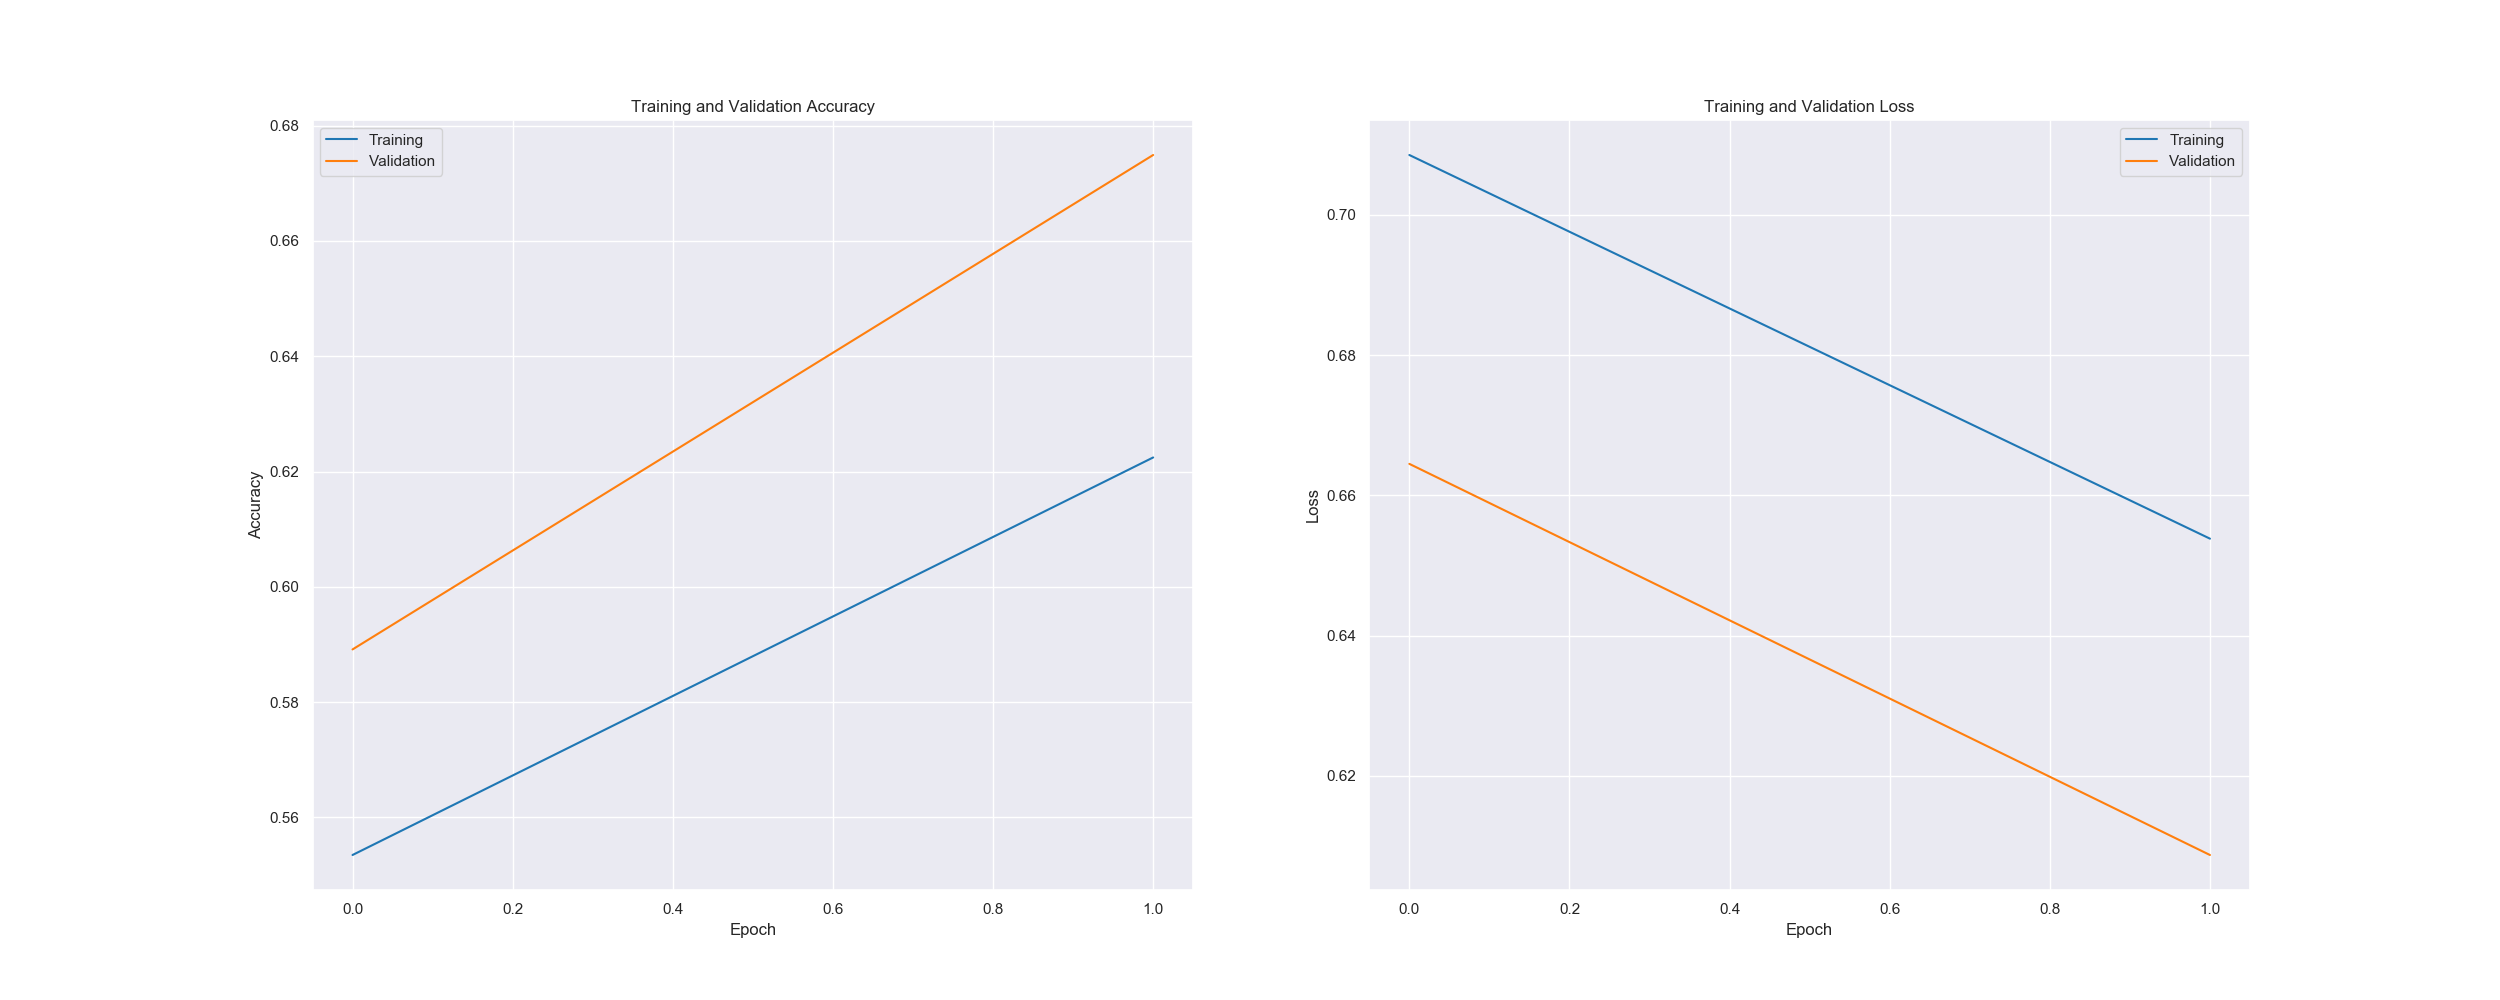
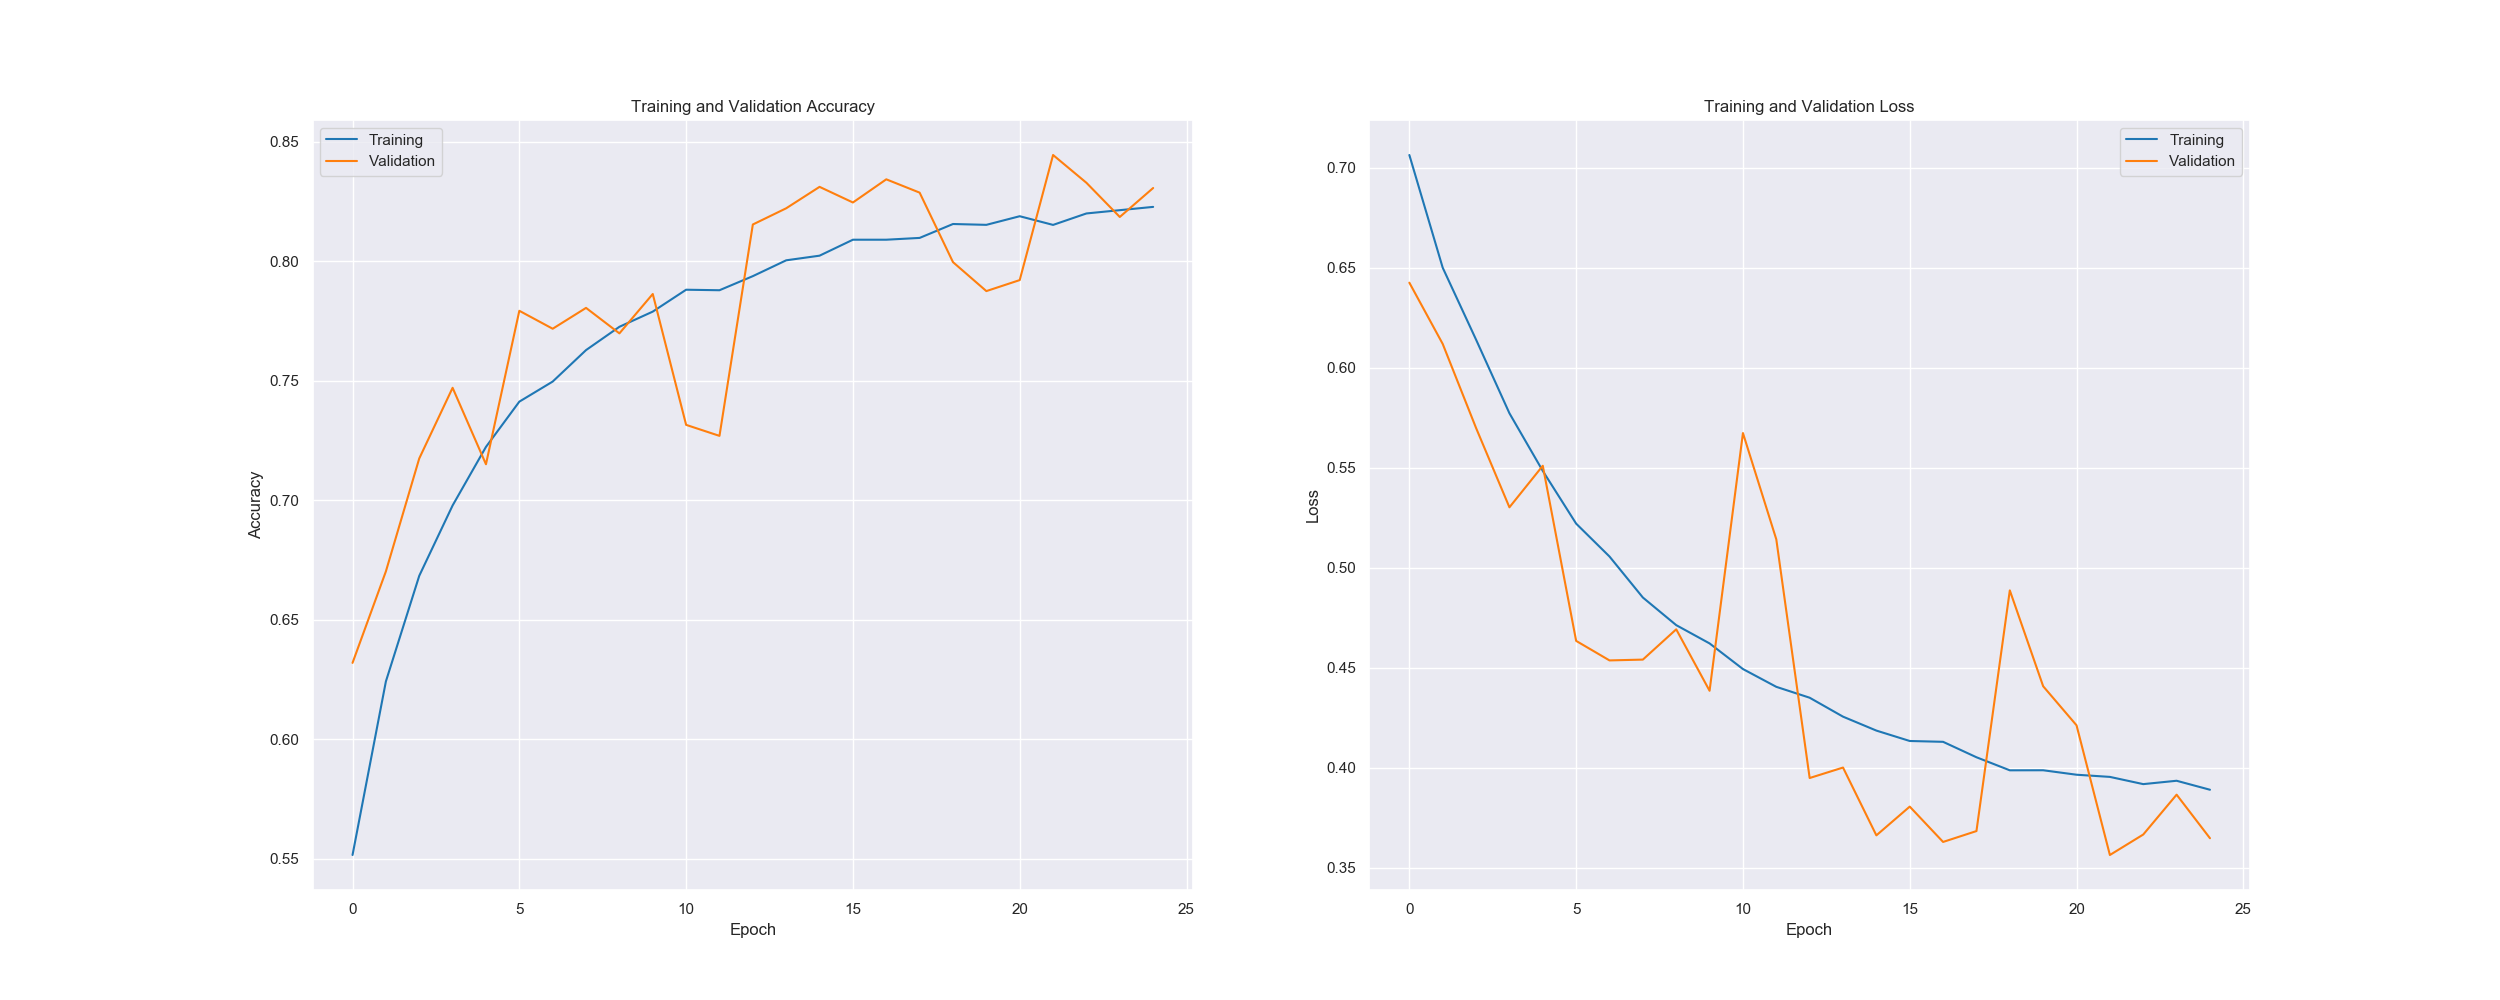
updated for an additional run:

diff --git a/model.py b/model.py
@@ -105,5 +105,5 @@ def plot_results(history):
     plt.savefig('assets/cats-v-dogs.png')
 
 if __name__ == "__main__":
-    history = train_model(2)
+    history = train_model(25)
     plot_results(history)
